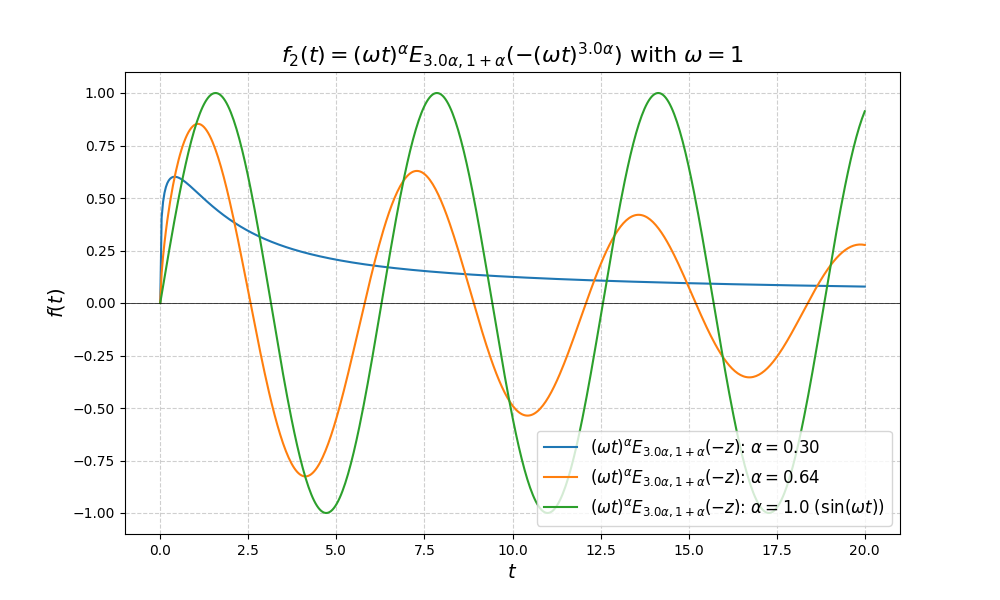
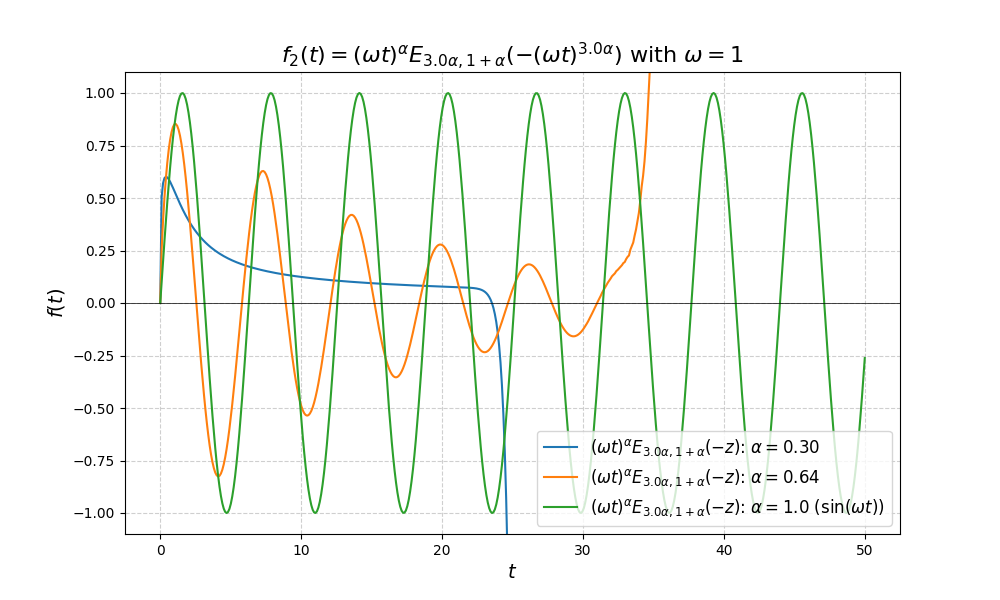
update commit

diff --git a/main.py b/main.py
@@ -111,7 +111,7 @@ class MittagLefflerPlotter:
         plt.xlabel(r'$t$', fontsize=14)
         plt.ylabel(r'$f(t)$', fontsize=14)
         plt.grid(True, linestyle='--', alpha=0.6)
-        plt.axhline(0, color='black', linewidth=0.5)
+        plt.axhline(color='black', linewidth=0.5)
         plt.legend(fontsize=12, loc='lower right')
         plt.ylim(-1.1, 1.1)
         plt.savefig(filename)
@@ -121,7 +121,7 @@ class MittagLefflerPlotter:
 
 # --- execution part ---
 if __name__ == '__main__':
-    plotter = MittagLefflerPlotter(t_end=20.0)
+    plotter = MittagLefflerPlotter(t_end=50.0)
     alphas_to_plot = [0.30, 0.64, 1.0]
 
     # 1. Draw the graph of the first function (E_{2*alpha, 1})
@@ -129,7 +129,7 @@ if __name__ == '__main__':
     plotter.plot_function(
         function_name='f1',
         alphas=alphas_to_plot,
-        filename='MittagLeffler_F1.png'
+        filename=f'MittagLeffler_F1_m={plotter.m}.png'
     )
 
     # 2. Plot the graph of the second function ((\omega t)^\alpha E_{2*alpha, 1+alpha})
@@ -137,5 +137,5 @@ if __name__ == '__main__':
     plotter.plot_function(
         function_name='f2',
         alphas=alphas_to_plot,
-        filename='MittagLeffler_F2.png'
+        filename=f'MittagLeffler_F2_m={plotter.m}.png'
     )
